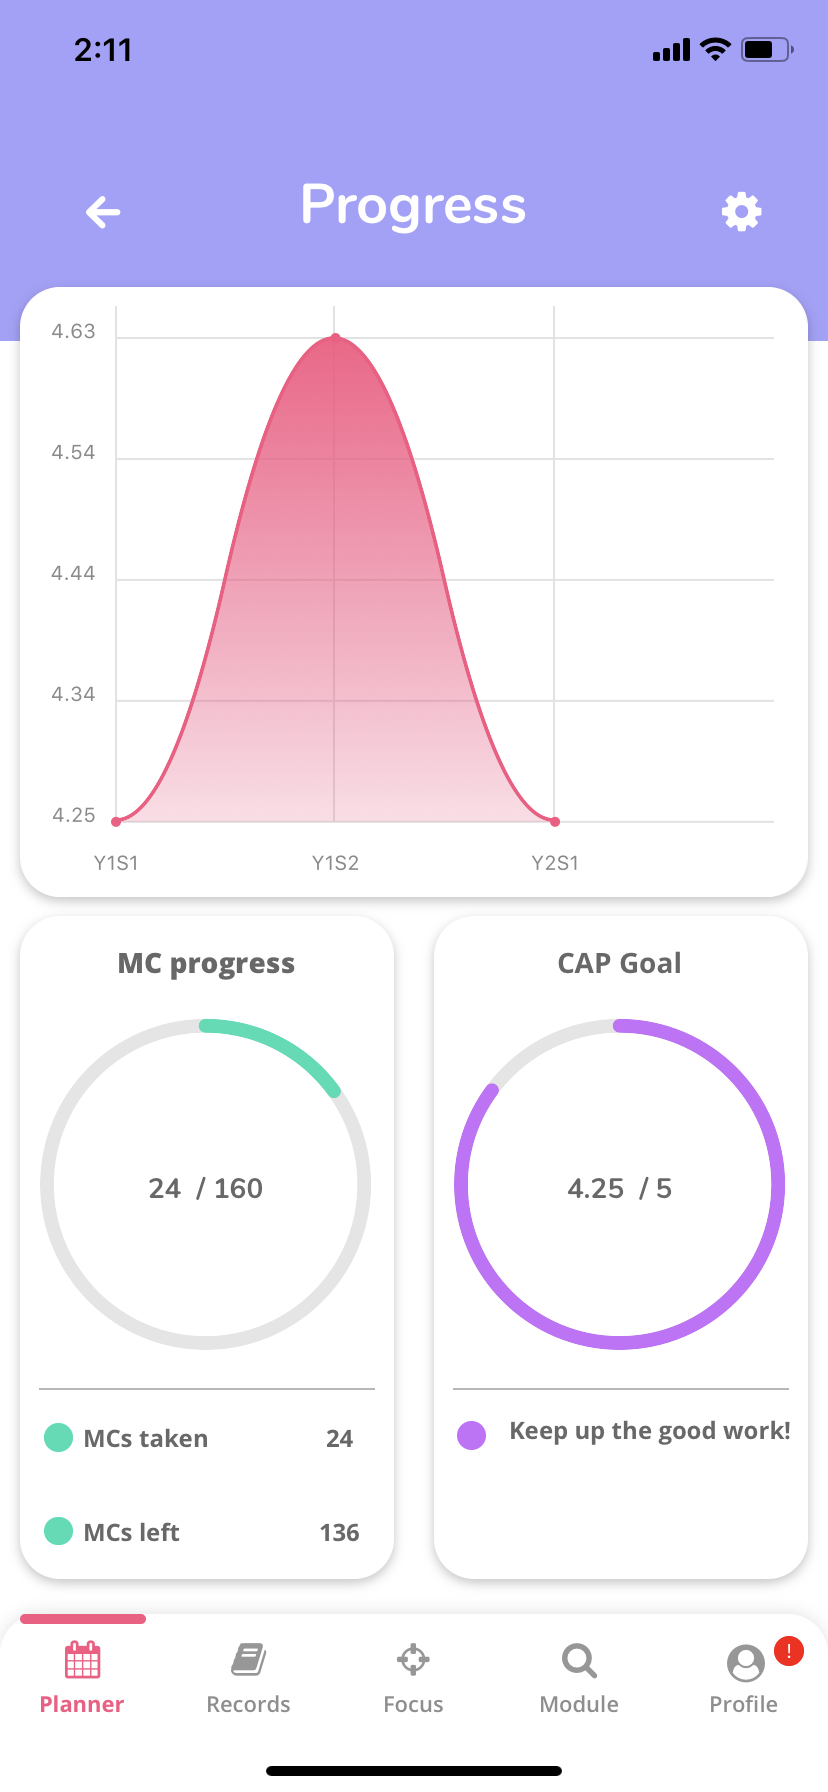
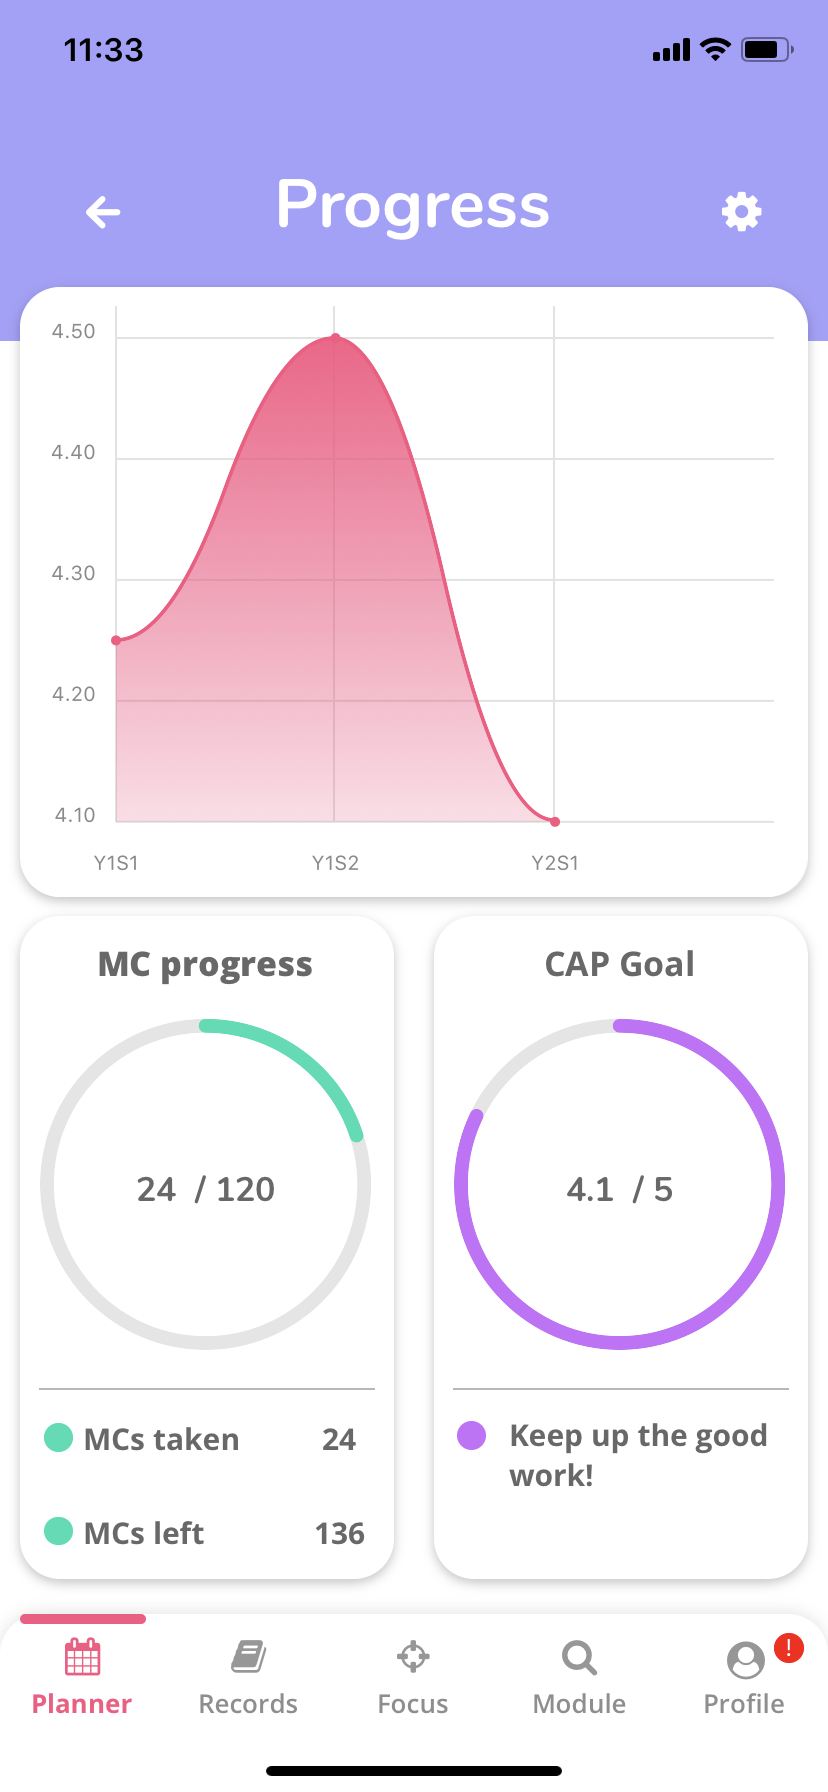
-fix progress page and resizing bug

diff --git a/Screens/HomepageScreens/Planner/ProgressPage.js b/Screens/HomepageScreens/Planner/ProgressPage.js
@@ -28,6 +28,7 @@ const ProgressPage = ({ navigation, route }) => {
   const [previousCap, setPreviousCap] = useState(0);
   const [allowClicks, setAllowClicks] = useState(false);
   const [userID, setUserID] = useState("");
+  const [mcremainder, setmcRemainder] = useState(0);
   useEffect(() => {
     if (
       route.params?.usersDetails &&
@@ -56,13 +57,15 @@ const ProgressPage = ({ navigation, route }) => {
         setOverallData(route.params?.usersDetails.CapArray);
         setCap(usersCurrentCap);
         setMCs(usersOverallMc);
+        setMCprogressTotal(usersTARGETMC);
+        setcapGoalDenominator(usersTARGETCAP);
+        setmcRemainder(usersTARGETMC - usersOverallMc);
         setShowGraph(true);
         setProgress(
-          (Math.min(usersOverallMc, MCprogressTotal) / MCprogressTotal) * 100
+          (Math.min(usersOverallMc, usersTARGETMC) / usersTARGETMC) * 100
         );
         setProgress2(
-          (Math.min(usersCurrentCap, capGoalDenominator) / capGoalDenominator) *
-            100
+          (Math.min(usersCurrentCap, usersTARGETCAP) / usersTARGETCAP) * 100
         );
         setCircleLeft(
           whatCircle(
@@ -82,9 +85,7 @@ const ProgressPage = ({ navigation, route }) => {
         );
         setTextToShow(
           whatText(
-            (Math.min(usersCurrentCap, capGoalDenominator) /
-              capGoalDenominator) *
-              100
+            (Math.min(usersCurrentCap, usersTARGETCAP) / usersTARGETCAP) * 100
           )
         );
       }
@@ -98,6 +99,9 @@ const ProgressPage = ({ navigation, route }) => {
         const second = route.params?.items[1];
         setProgress((Math.min(MCs, first) / second) * 100);
         setProgress2((Math.min(cap, second) / second) * 100);
+        setMCprogressTotal(first);
+        setcapGoalDenominator(second);
+        setmcRemainder(first - MCs);
         setCircleLeft(
           whatCircle(
             (Math.min(MCs, first) / first) * 100,
@@ -677,7 +681,7 @@ const ProgressPage = ({ navigation, route }) => {
                   <Text
                     style={{ ...globalFontStyles.OSB_15, color: "#686868" }}
                   >
-                    {Math.max(MCprogressTotal - MCs, 0)}
+                    {Math.max(mcremainder, 0)}
                   </Text>
                 </View>
               </View>

diff --git a/Screens/HomepageScreens/Profile/ProTip/ScreenPic.js b/Screens/HomepageScreens/Profile/ProTip/ScreenPic.js
@@ -1,5 +1,5 @@
 import React from "react";
-import { View, StyleSheet, Dimensions, ImageBackground } from "react-native";
+import { View, StyleSheet, Dimensions, Image } from "react-native";
 
 const height = Dimensions.get("window").height;
 const width = Dimensions.get("window").width;
@@ -7,7 +7,9 @@ const width = Dimensions.get("window").width;
 const ScreenPic = ({ imageLink }) => {
   return (
     <View style={styles.container}>
-      <ImageBackground source={imageLink} style={styles.imageStyling} />
+      <View style={styles.shadowImage}>
+        <Image source={imageLink} style={styles.imageStyling} />
+      </View>
     </View>
   );
 };
@@ -19,15 +21,11 @@ const styles = StyleSheet.create({
     width: width,
     justifyContent: "center",
     alignItems: "center",
-    resizeMode: "center",
+    overflow: "hidden",
   },
-  imageStyling: {
-    justifyContent: "center",
-    alignSelf: "center",
-    alignItems: "center",
+  shadowImage: {
     width: 0.605 * width,
     height: 0.62 * height,
-    backgroundColor: "white",
     shadowColor: "#000",
     shadowOffset: {
       width: 0,
@@ -36,5 +34,11 @@ const styles = StyleSheet.create({
     shadowOpacity: 0.22,
     shadowRadius: 2.22,
     elevation: 3,
+  },
+  imageStyling: {
+    resizeMode: "contain",
+    alignSelf: "center",
+    width: 0.605 * width,
+    height: 0.62 * height,
   },
 });

diff --git a/Screens/HomepageScreens/Planner/Plans/ModuleTemplate.js b/Screens/HomepageScreens/Planner/Plans/ModuleTemplate.js
@@ -36,7 +36,7 @@ const ModuleTemplate = (props) => {
   const [menuVisible, setMenuVisible] = useState(false);
   const [TargetOrFinal, setTargetOrFinal] = useState(0);
   const [alertText, setAlertText] = useState(false);
-  const [alertText2, setAlertText2] = useState(false);
+
   const MenuIcon = () => (
     <Icon
       fill="#232323"
@@ -64,14 +64,6 @@ const ModuleTemplate = (props) => {
             const deleteMethod = props.deleteMethod;
             deleteMethod(moduleCode);
             toggleMenu();
-          }}
-          activeOpacity={0.9}
-        />
-        <MenuItem
-          title={"Accept conflict"}
-          onPress={() => {
-            toggleMenu();
-            setClash(false);
           }}
           activeOpacity={0.9}
         />
